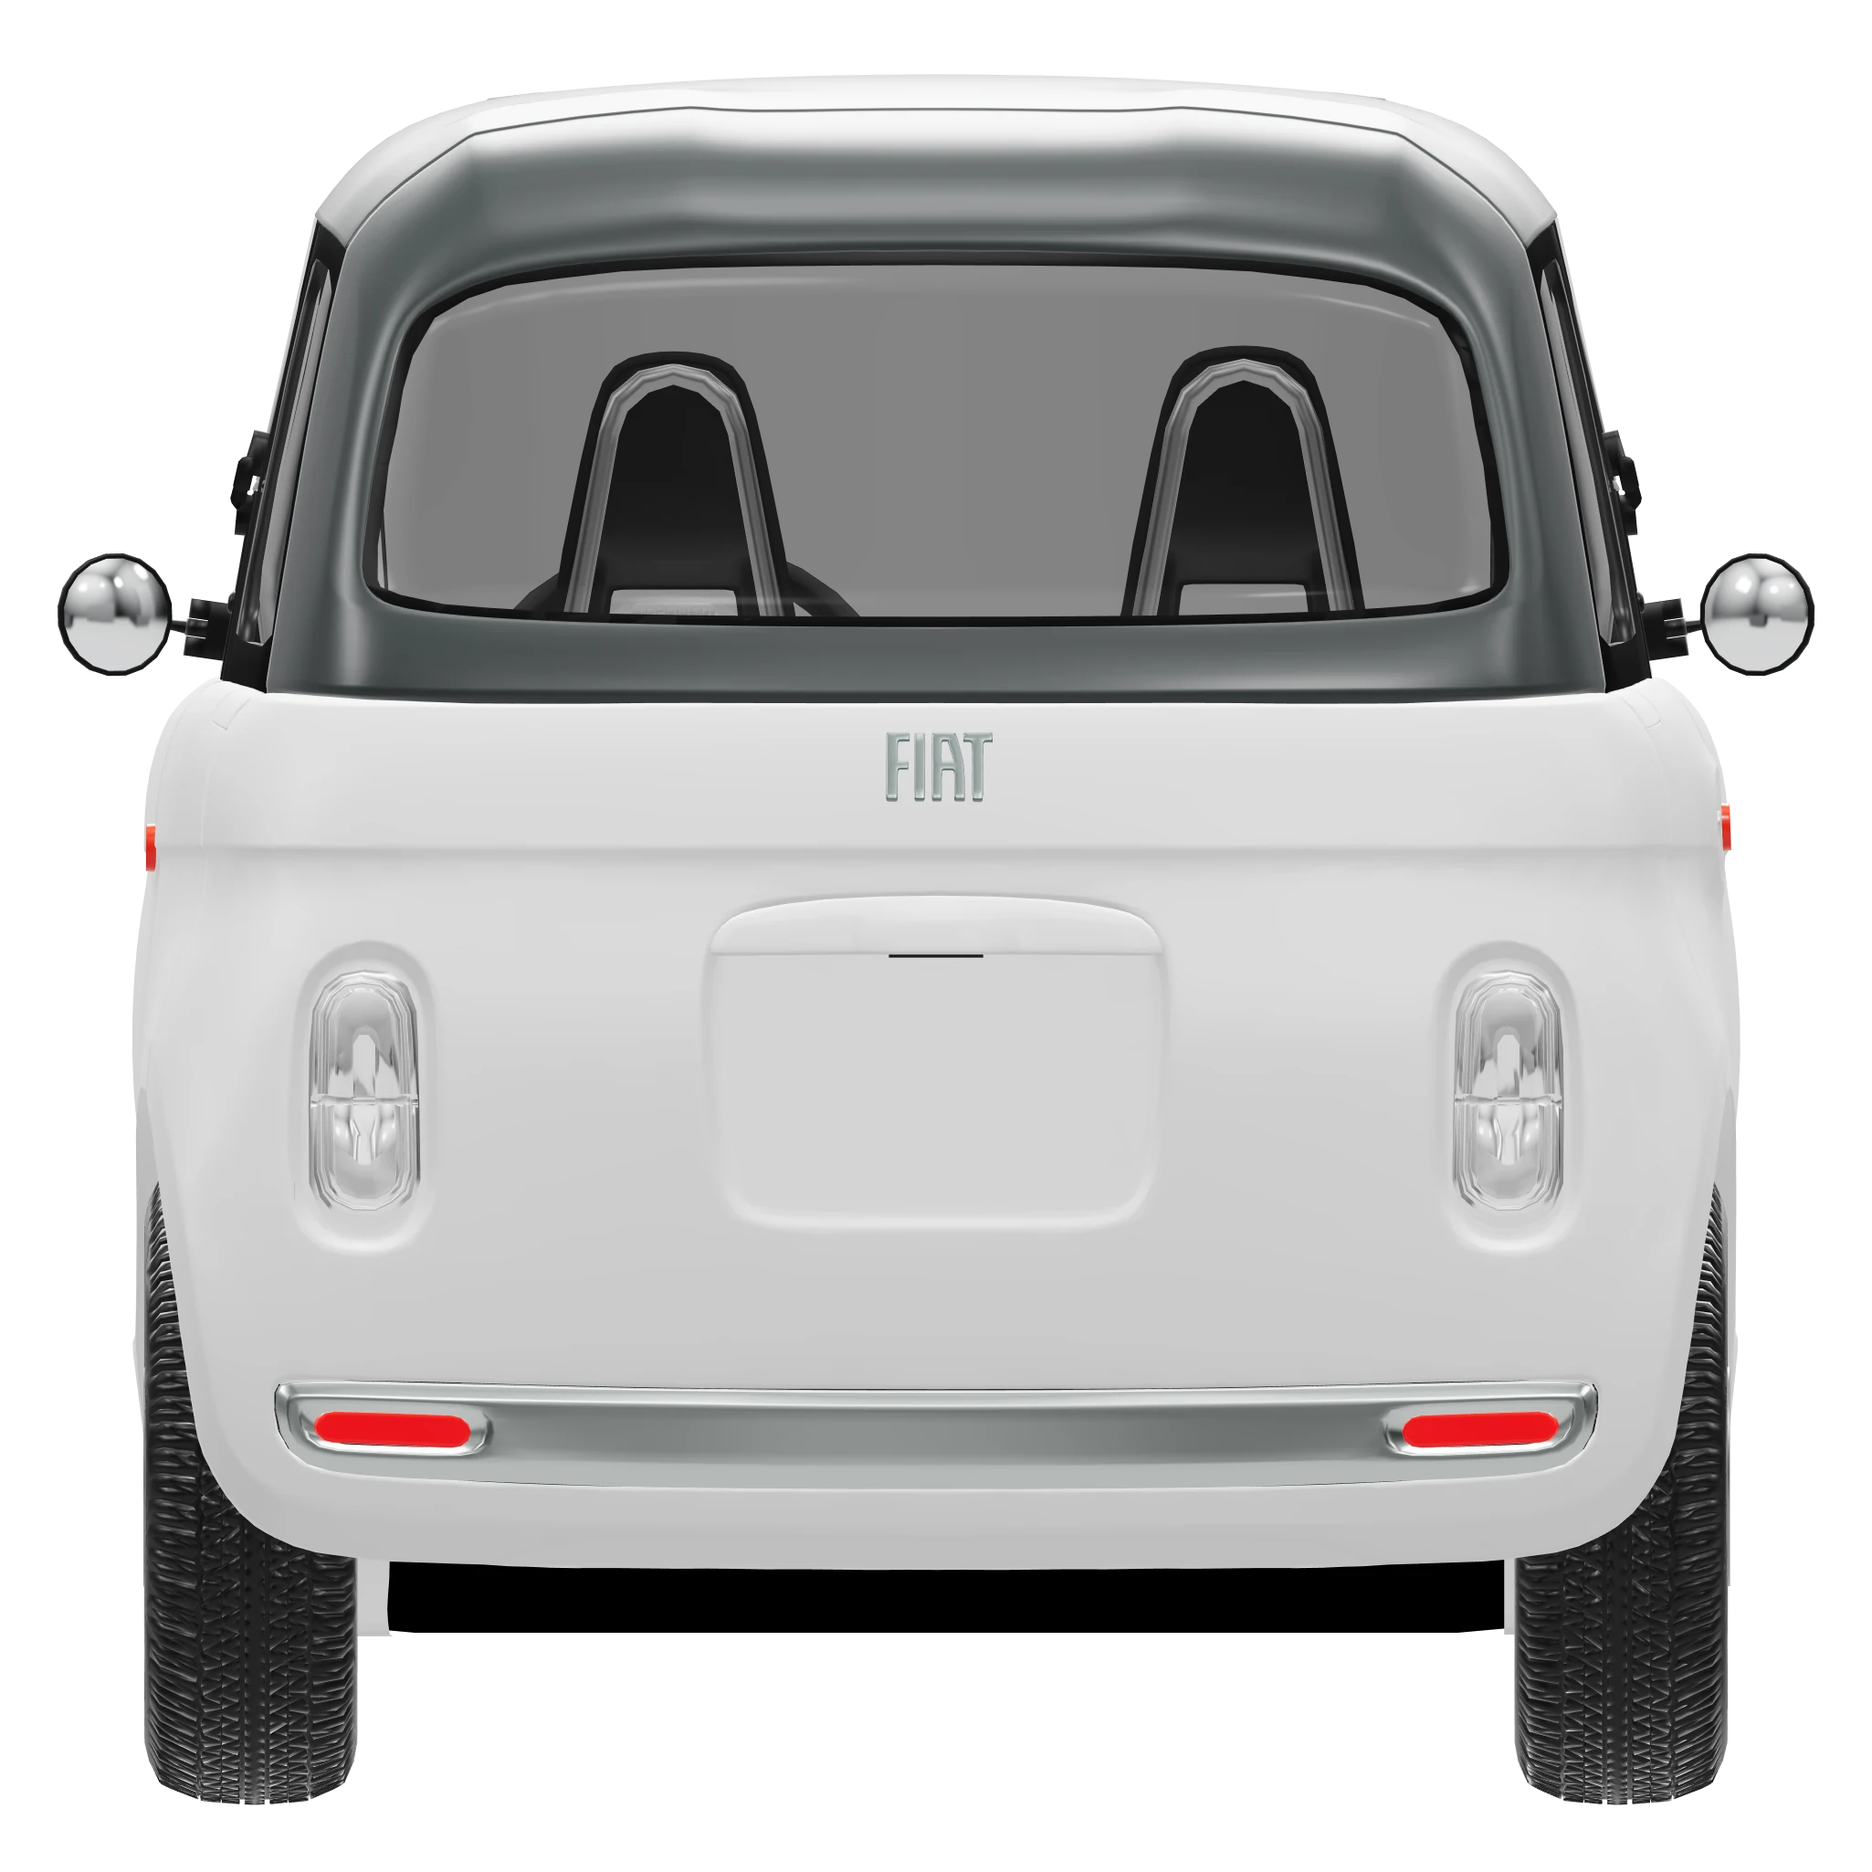
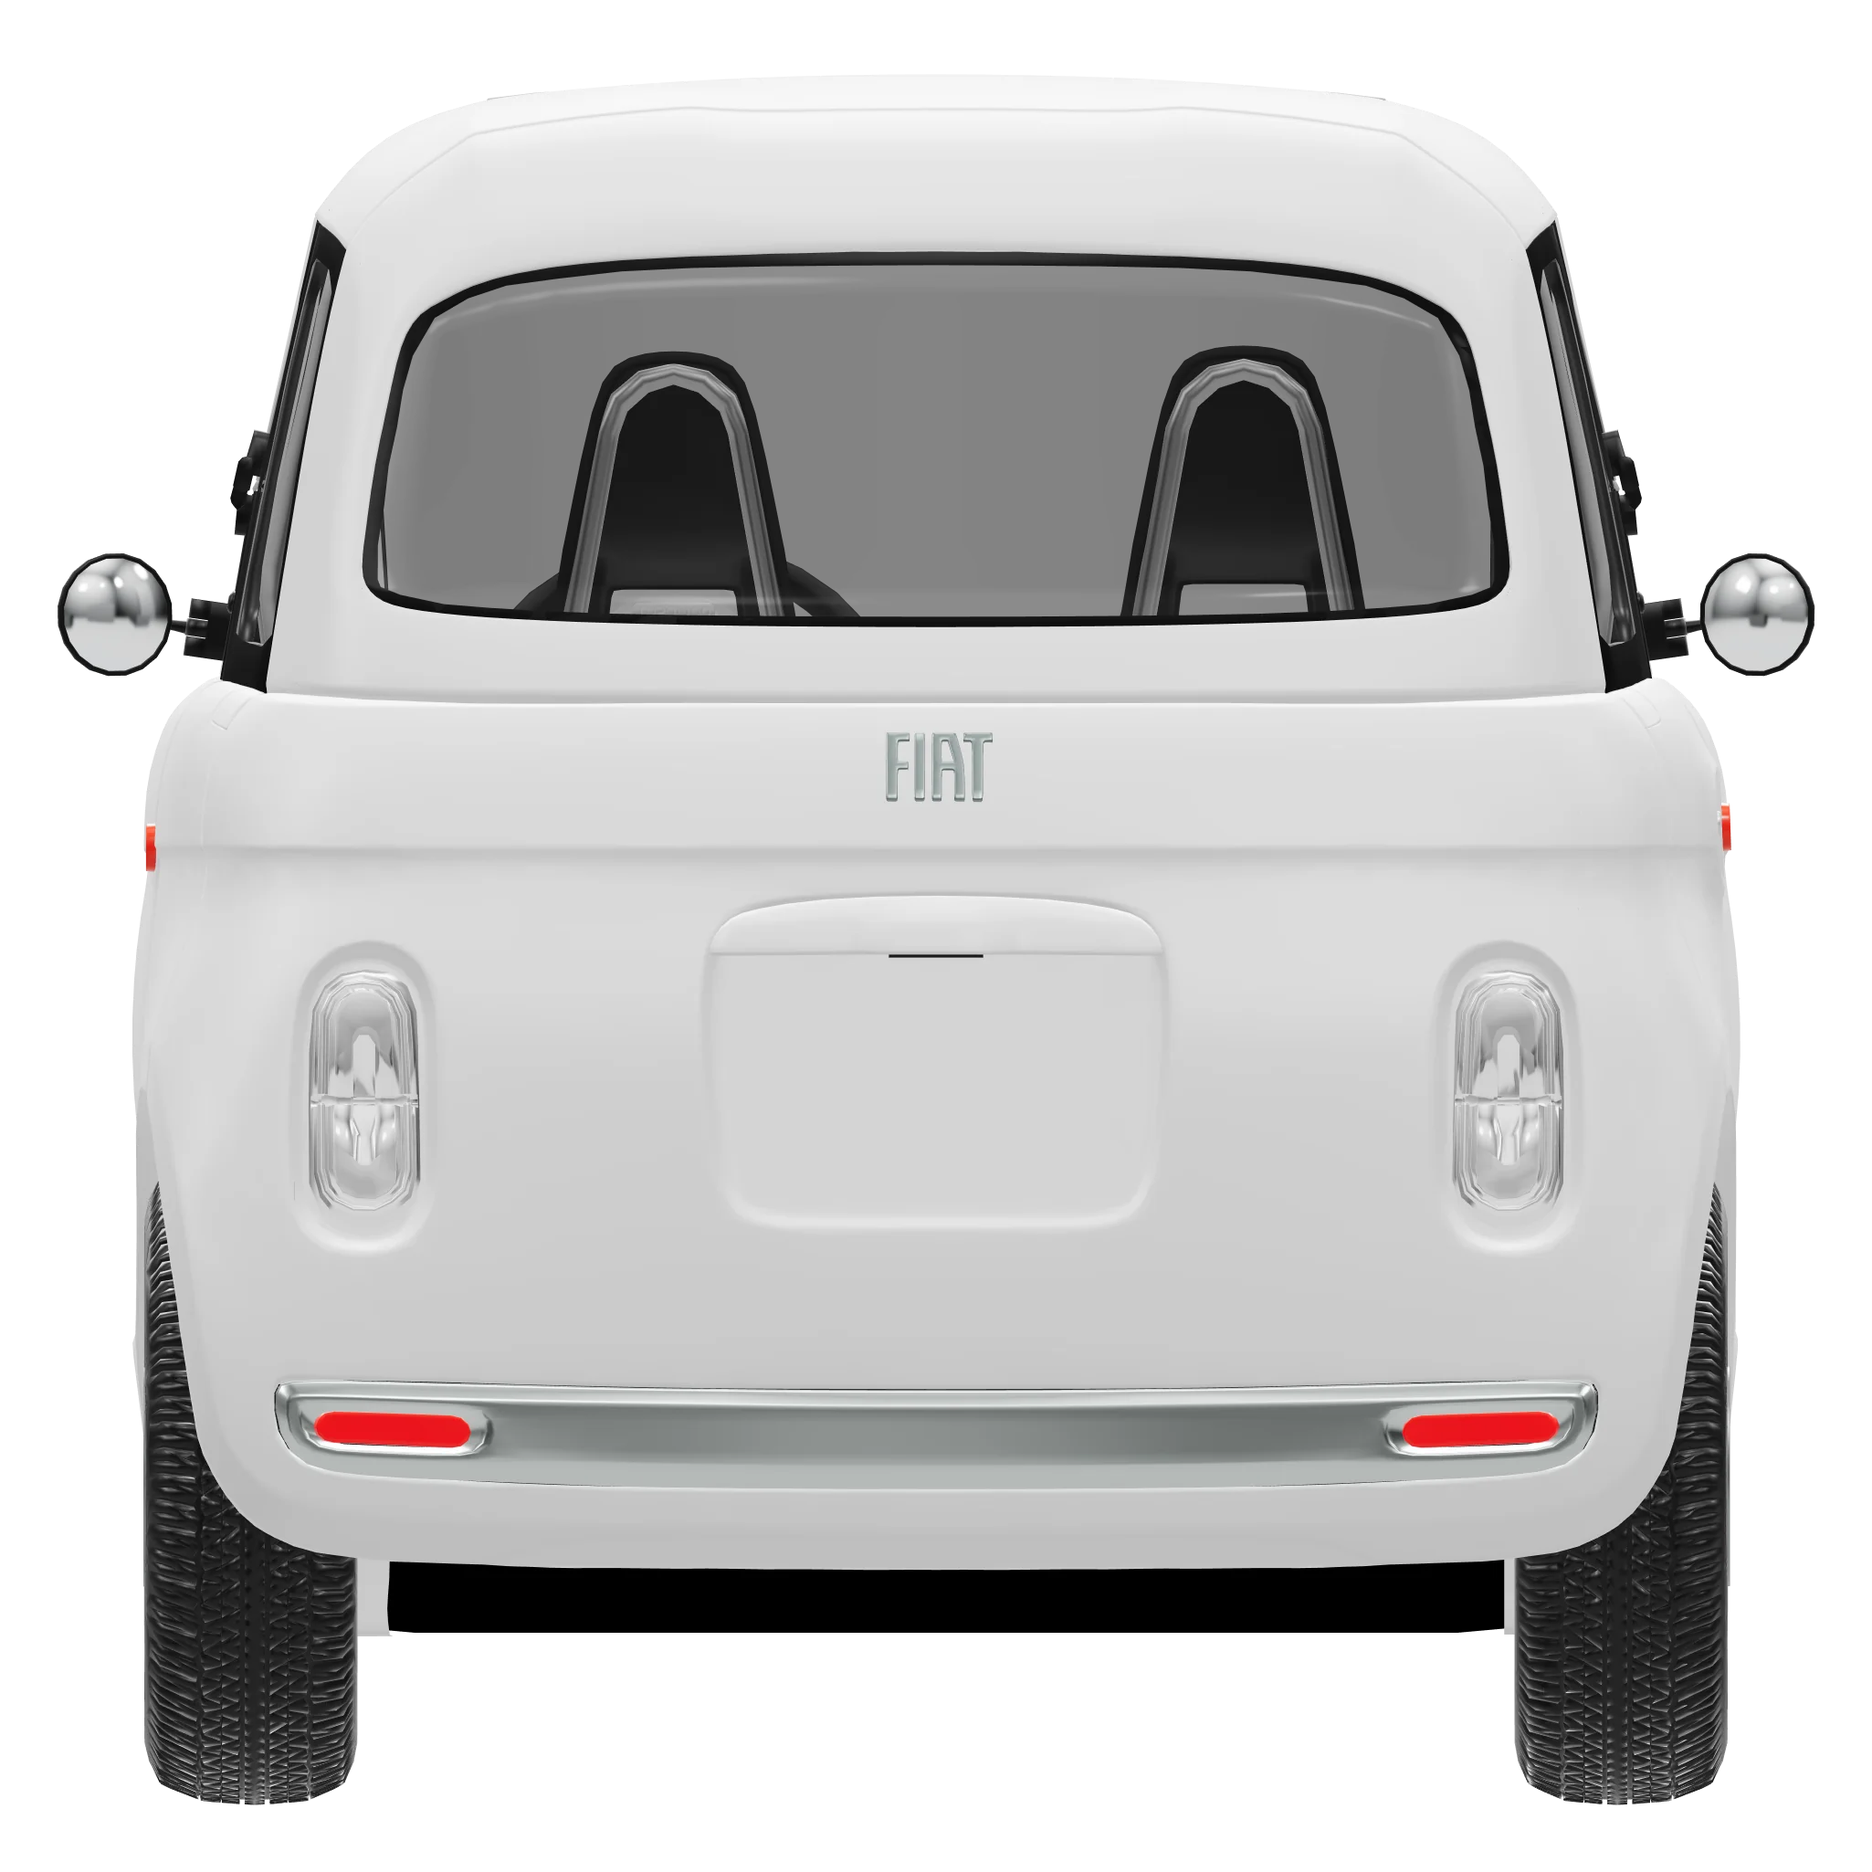
Belettering: dakkleur, standaard gelijk aan de autokleur
Het dak (paint_roof uit het 3D-model: dak en de achterkant rond de
achterruit) is opnieuw gerenderd als lak met een eigen masker
(topolino-X-dak.webp). Standaard krijgt het dak de autokleur; je kunt ook
antraciet (af fabriek), zwart, wit, crème of een eigen kleur kiezen.
Geldt voor alle kanten, het klantvoorbeeld en wordt bewaard.

Claude-Session: https://claude.ai/code/session_015WSYokpg6jjAcqgWc3k7J6

Changed region(s): [[0.1249, 0.0624, 0.8741, 0.3746]]

diff --git a/docs/belettering.html b/docs/belettering.html
@@ -136,6 +136,7 @@
   .cars{display:flex;gap:6px;align-items:center}
   .cars button{width:26px;height:26px;border-radius:50%;border:2px solid var(--paper);box-shadow:0 0 0 1px var(--line-strong);padding:0}
   .cars button[aria-pressed="true"]{box-shadow:0 0 0 2px var(--accent)}
+  .cars button.pill{width:auto;border-radius:13px;padding:0 10px;font-size:12.5px;font-weight:700;background:var(--paper);color:var(--ink)}
   .cars input[type=color]{width:30px;height:30px;border:0;padding:0;background:transparent}
   .place{padding:12px 16px 16px;border-top:1px solid var(--line)}
   .place .grid{display:grid;grid-template-columns:repeat(5,minmax(0,1fr));gap:10px}
@@ -336,6 +337,8 @@
       <div class="stagebar">
         <span class="lbl">Autokleur</span>
         <div class="cars" id="cars"></div>
+        <span class="lbl" style="margin-left:6px">Dak</span>
+        <div class="cars" id="roofs"></div>
         <span class="sp" style="flex:1"></span>
         <label class="toggle hidden" id="linkwrap"><input type="checkbox" id="f-linked" checked> Beide deuren gelijk</label>
       </div>
@@ -441,6 +444,7 @@ const zonesFor = (d, side) => side === 'R'
 const midV = d => (d.marge + GREEP.v0 - 10) / 2;
 const CARS = [['Verde Vita','#93bbae'],['Wit','#f3f1ec'],['Crème','#efe2c4'],['Zwart','#262626'],['Roze','#ecbcc6'],['Lichtblauw','#a9c9e0'],['Rood','#b8312f']];
 const FOILS = [['Zwart','#111111'],['Wit','#ffffff'],['Grijs','#8a8d8f'],['Rood','#c62828'],['Blauw','#1f4e9c'],['Groen','#2e7d32'],['Goud','#c9a24a']];
+const ROOFS = [['Antraciet (af fabriek)','#3a3f40'],['Zwart','#262626'],['Wit','#f3f1ec'],['Crème','#efe2c4']];
 const QRCOLS = [['Zwart','#111111'],['Donkerblauw','#14295a'],['Donkergroen','#1f4d2b'],['Donkerrood','#7a1c1c']];
 const KEY = 's45-belettering-v2', KEY_OLD = 's45-belettering-v1';
 const TYPES = {logo:'Logo', tekst:'Tekst', qr:'QR-code'};
@@ -449,7 +453,7 @@ const WHERE_SHORT = {LR:'Beide deuren', L:'Links', R:'Rechts', F:'Voor', B:'Acht
 
 const S = {
   job:{klant:'', order:'', kenteken:'', opm:''},
-  items:[], active:null, view:'L', zoom:'deur', car:CARS[0][1], dims:{...DEF}
+  items:[], active:null, view:'L', zoom:'deur', car:CARS[0][1], roof:null, dims:{...DEF}
 };
 
 const $ = (s, r=document) => r.querySelector(s);
@@ -1062,10 +1066,10 @@ async function qrToSvg(q){
 // zone-X.png (voor/achter, 2 px per cm): rood = lak, blauw = glas, groen = hoe recht het vlak naar je toe staat, alfa = auto.
 // Het modelbestand zelf staat hier niet (licentie): alleen deze beelden.
 const VIEW = {
-  L:{base:'belettering/topolino-L.webp', lak:'belettering/topolino-L-lak.webp', x:-799, y:-1282, w:2640, h:1640, sh:[540, 293, 1360, 46]},
-  R:{base:'belettering/topolino-R.webp', lak:'belettering/topolino-R-lak.webp', x:-761, y:-1282, w:2640, h:1640, sh:[540, 293, 1360, 46]},
-  F:{base:'belettering/topolino-F.webp', lak:'belettering/topolino-F-lak.webp', zone:'belettering/zone-F.png', x:-820, y:-1580, w:1640, h:1640, sh:[0, 4, 800, 40]},
-  B:{base:'belettering/topolino-B.webp', lak:'belettering/topolino-B-lak.webp', zone:'belettering/zone-B.png', x:-820, y:-1580, w:1640, h:1640, sh:[0, 4, 800, 40]}
+  L:{base:'belettering/topolino-L.webp', lak:'belettering/topolino-L-lak.webp', dak:'belettering/topolino-L-dak.webp', x:-799, y:-1282, w:2640, h:1640, sh:[540, 293, 1360, 46]},
+  R:{base:'belettering/topolino-R.webp', lak:'belettering/topolino-R-lak.webp', dak:'belettering/topolino-R-dak.webp', x:-761, y:-1282, w:2640, h:1640, sh:[540, 293, 1360, 46]},
+  F:{base:'belettering/topolino-F.webp', lak:'belettering/topolino-F-lak.webp', dak:'belettering/topolino-F-dak.webp', zone:'belettering/zone-F.png', x:-820, y:-1580, w:1640, h:1640, sh:[0, 4, 800, 40]},
+  B:{base:'belettering/topolino-B.webp', lak:'belettering/topolino-B-lak.webp', dak:'belettering/topolino-B-dak.webp', zone:'belettering/zone-B.png', x:-820, y:-1580, w:1640, h:1640, sh:[0, 4, 800, 40]}
 };
 const AUTO_VB = [-880, -1340, 2860, 1720], FB_VB = [-880, -1600, 1760, 1690];
 // Vaste obstakels die niet in het 3D-model zitten.
@@ -1193,17 +1197,19 @@ function fbMax(it, v, p){
 const _img = {}; const img = url => _img[url] || (_img[url] = loadImg(url).catch(e => { delete _img[url]; throw e; }));
 const _tint = new Map(), _tintUrl = new Map();
 // Auto in een lakkleur: wit beeld × kleur binnen het lakmasker, glans erover.
-function tintedCar(v, color){
-  const key = v + color;
+// Het dak (topolino-X-dak.webp: glans + dakmasker) krijgt zijn eigen kleur; standaard dezelfde als de auto.
+const roofColor = () => S.roof || S.car;
+function tintedCar(v, color, roof = color){
+  const key = v + color + '|' + roof;
   if (_tint.has(key)) return _tint.get(key);
   const job = (async () => {
-    const C = VIEW[v], [b, l] = await Promise.all([img(C.base), img(C.lak)]);
+    const C = VIEW[v], [b, l, r] = await Promise.all([img(C.base), img(C.lak), img(C.dak)]);
     const W = b.naturalWidth, H = b.naturalHeight, c = canvas(W, H), g = c.getContext('2d');
     g.drawImage(b, 0, 0);
-    const t = canvas(W, H), tg = t.getContext('2d'); tg.fillStyle = color; tg.fillRect(0, 0, W, H); tg.globalCompositeOperation = 'destination-in'; tg.drawImage(l, 0, 0);
-    g.globalCompositeOperation = 'multiply'; g.drawImage(t, 0, 0);
-    g.globalCompositeOperation = 'lighter'; g.globalAlpha = 0.16; g.drawImage(t, 0, 0); g.globalAlpha = 1;
-    g.globalCompositeOperation = 'screen'; g.drawImage(l, 0, 0);
+    const layer = (mask, col) => { const t = canvas(W, H), tg = t.getContext('2d'); tg.fillStyle = col; tg.fillRect(0, 0, W, H); tg.globalCompositeOperation = 'destination-in'; tg.drawImage(mask, 0, 0);
+      g.globalCompositeOperation = 'multiply'; g.drawImage(t, 0, 0); g.globalCompositeOperation = 'lighter'; g.globalAlpha = 0.16; g.drawImage(t, 0, 0); g.globalAlpha = 1; };
+    layer(l, color); layer(r, roof);
+    g.globalCompositeOperation = 'screen'; g.drawImage(l, 0, 0); g.drawImage(r, 0, 0);
     g.globalCompositeOperation = 'destination-in'; g.drawImage(b, 0, 0);
     const url = await new Promise(res => c.toBlob(bl => res(URL.createObjectURL(bl)), 'image/webp', 0.9));
     _tintUrl.set(key, url);
@@ -1218,12 +1224,12 @@ function viewBox(v){ const d = S.dims; return !isDoor(v) ? FB_VB : S.zoom === 'd
 function logoHref(L){ return L.kind === 'svg' ? svgDataURL(L.svg) : L.kind === 'pdf' ? L.preview : L.raster.url; }
 // Vaste laag: schaduw op de grond en de auto in de gekozen kleur.
 function drawCar(svg, v){
-  const C = VIEW[v], defs = E('defs', null, svg), color = S.car, key = v + color, [cx, cy, rx, ry] = C.sh;
+  const C = VIEW[v], defs = E('defs', null, svg), color = S.car, roof = roofColor(), key = v + color + '|' + roof, [cx, cy, rx, ry] = C.sh;
   const rg = E('radialGradient', {id:'gsh'}, defs);
   E('stop', {offset:0, 'stop-color':'#000', 'stop-opacity':0.3}, rg); E('stop', {offset:1, 'stop-color':'#000', 'stop-opacity':0}, rg);
   E('ellipse', {cx, cy, rx, ry, fill:'url(#gsh)'}, svg);
   const im = E('image', {href:_tintUrl.get(key) || C.base, x:C.x, y:C.y, width:C.w, height:C.h, preserveAspectRatio:'none'}, svg);
-  if (!_tintUrl.has(key)) tintedCar(v, color).then(t => { if (im.isConnected && S.car === color) im.setAttribute('href', t.url); }).catch(e => console.warn('autokleur', e));
+  if (!_tintUrl.has(key)) tintedCar(v, color, roof).then(t => { if (im.isConnected && S.car === color && roofColor() === roof) im.setAttribute('href', t.url); }).catch(e => console.warn('autokleur', e));
 }
 // Eén sticker in beeld, met de schaduw en glans van de auto eroverheen.
 function drawSticker(parent, it, v, active, fs){
@@ -1299,7 +1305,7 @@ function drawActive(dyn, v, vb){
   }
 }
 function renderStage(){
-  const svg = $('#stage'), v = S.view, vb = viewBox(v), key = [v, isDoor(v) ? S.zoom : '', S.car, S.dims.W, S.dims.H].join('|');
+  const svg = $('#stage'), v = S.view, vb = viewBox(v), key = [v, isDoor(v) ? S.zoom : '', S.car, roofColor(), S.dims.W, S.dims.H].join('|');
   if (!isDoor(v)) loadZone(v);
   if (svg.dataset.key !== key){
     svg.innerHTML = ''; svg.setAttribute('viewBox', vb.join(' ')); drawCar(svg, v); E('g', {id:'oth'}, svg); E('g', {id:'dyn'}, svg);
@@ -1607,6 +1613,7 @@ function renderJob(){
   $('#linkwrap').classList.toggle('hidden', !(it && it.where === 'LR' && isDoor(S.view)));
   $('#f-linked').checked = !!(it && it.linked);
   $$('#cars button').forEach(b => b.setAttribute('aria-pressed', String(b.dataset.v === S.car)));
+  $$('#roofs button').forEach(b => b.setAttribute('aria-pressed', String(b.dataset.v === (S.roof || ''))));
   for (const k of ['W','H','crU','marge']) $('#d-' + k).value = S.dims[k];
 }
 function thumbOf(it){
@@ -1973,7 +1980,7 @@ function werkDoor(doc, pg, pngs){
   return cy;
 }
 async function fbBackground(v){
-  const t = await tintedCar(v, '#e4e4e4'), V = VIEW[v], src = t.canvas, fx = src.width / V.w, fy = src.height / V.h, ppm = 0.55;
+  const t = await tintedCar(v, '#e4e4e4', '#e4e4e4'), V = VIEW[v], src = t.canvas, fx = src.width / V.w, fy = src.height / V.h, ppm = 0.55;
   const c = canvas(1640 * ppm, 1580 * ppm), g = c.getContext('2d'); g.fillStyle = '#ffffff'; g.fillRect(0, 0, c.width, c.height);
   g.drawImage(src, (-820 - V.x) * fx, (-1560 - V.y) * fy, 1640 * fx, 1580 * fy, 0, 0, c.width, c.height);
   return c.toDataURL('image/jpeg', 0.85);
@@ -2040,7 +2047,7 @@ async function sceneCanvas(v, Wpx){
   g.save(); g.translate((cx - VX0) * k, (cy - VY0) * k); g.scale(1, ry / rx);
   const gr = g.createRadialGradient(0, 0, 0, 0, 0, rx * k); gr.addColorStop(0, 'rgba(0,0,0,.3)'); gr.addColorStop(1, 'rgba(0,0,0,0)');
   g.fillStyle = gr; g.beginPath(); g.arc(0, 0, rx * k, 0, Math.PI * 2); g.fill(); g.restore();
-  const t = await tintedCar(v, S.car);
+  const t = await tintedCar(v, S.car, roofColor());
   g.drawImage(t.canvas, (V.x - VX0) * k, (V.y - VY0) * k, V.w * k, V.h * k);
   const [base, lak] = await Promise.all([img(V.base), img(V.lak)]), fx = base.naturalWidth / V.w, fy = base.naturalHeight / V.h;
   for (const it of itemsOn(v)){
@@ -2090,7 +2097,7 @@ function deL(l){ if (l && l.kind === 'pdf') l.pdf = {bytes:unb64(l.pdf.b64), cro
 let saveT;
 function save(){ clearTimeout(saveT); saveT = setTimeout(() => {
   try {
-    const o = {v:2, job:S.job, active:S.active, view:S.view, zoom:S.zoom, car:S.car, dims:S.dims, dimsVer:DIMS_VERSION,
+    const o = {v:2, job:S.job, active:S.active, view:S.view, zoom:S.zoom, car:S.car, roof:S.roof, dims:S.dims, dimsVer:DIMS_VERSION,
       items:S.items.map(it => ({id:it.id, type:it.type, text:it.text, qr:it.qr, where:it.where, linked:it.linked, place:it.place, soort:it.soort, foil:it.foil, L:it.L ? serL(it.L) : null}))};
     let s = JSON.stringify(o);
     if (s.length > 4.5e6){ for (const x of o.items) if (x.L){ delete x.L.srcText; delete x.L.traceSrc; delete x.L.svgOrig; if (x.L.raster) delete x.L.raster.src; } s = JSON.stringify(o); }
@@ -2108,7 +2115,7 @@ function load(){
     }
     if (!o) return;
     const j = o.job || {}; S.job = {klant:j.klant || '', order:j.order || '', kenteken:j.kenteken || '', opm:j.opm || ''};
-    S.zoom = o.zoom || 'deur'; S.car = o.car || S.car; S.dims = o.dimsVer === DIMS_VERSION ? {...DEF, ...(o.dims || {})} : {...DEF};
+    S.zoom = o.zoom || 'deur'; S.car = o.car || S.car; S.roof = o.roof || null; S.dims = o.dimsVer === DIMS_VERSION ? {...DEF, ...(o.dims || {})} : {...DEF};
     S.items = (o.items || []).map(x => { const it = newItem(x.type || 'logo'); Object.assign(it, {id:x.id || it.id, where:x.where || it.where, linked:x.linked !== false, place:x.place || {}, soort:x.soort || it.soort, foil:x.foil || {}});
       if (x.text) it.text = {...it.text, ...x.text}; if (x.qr) it.qr = {...it.qr, ...x.qr}; it.L = deL(x.L); for (const k of Object.keys(it.place)) if (!it.place[k]) delete it.place[k]; return it; });
     for (const it of S.items){ if (it.where === 'LR' && it.linked && it.place.L) it.place.R = mirrorP(it.place.L); ensurePlaces(it, false); }
@@ -2144,6 +2151,10 @@ function bind(){
   const cars = $('#cars');
   for (const [n, c] of CARS) cars.append(h('button', {type:'button', title:n, 'aria-label':n, 'data-v':c, style:`background:${c}`, onclick:() => { S.car = c; renderJob(); renderStage(); renderChecks(); renderItems(); save(); }}));
   let carT; cars.append(h('input', {type:'color', title:'Eigen kleur', 'aria-label':'Eigen autokleur', value:'#93bbae', oninput:e => { clearTimeout(carT); const v = e.target.value; carT = setTimeout(() => { S.car = v; renderJob(); renderStage(); renderChecks(); renderItems(); save(); }, 180); }}));
+  const roofs = $('#roofs'), setRoof = v => { S.roof = v || null; renderJob(); renderStage(); save(); };
+  roofs.append(h('button', {type:'button', class:'pill', 'data-v':'', title:'Dak in dezelfde kleur als de auto', onclick:() => setRoof(null)}, 'Zelfde'));
+  for (const [n, c] of ROOFS) roofs.append(h('button', {type:'button', title:n, 'aria-label':'Dak ' + n.toLowerCase(), 'data-v':c, style:`background:${c}`, onclick:() => setRoof(c)}));
+  let roofT; roofs.append(h('input', {type:'color', title:'Eigen dakkleur', 'aria-label':'Eigen dakkleur', value:'#3a3f40', oninput:e => { clearTimeout(roofT); const v = e.target.value; roofT = setTimeout(() => setRoof(v), 180); }}));
   // bestand
   const drop = $('#drop');
   $('#file').addEventListener('change', e => onFile(e.target.files[0]));
